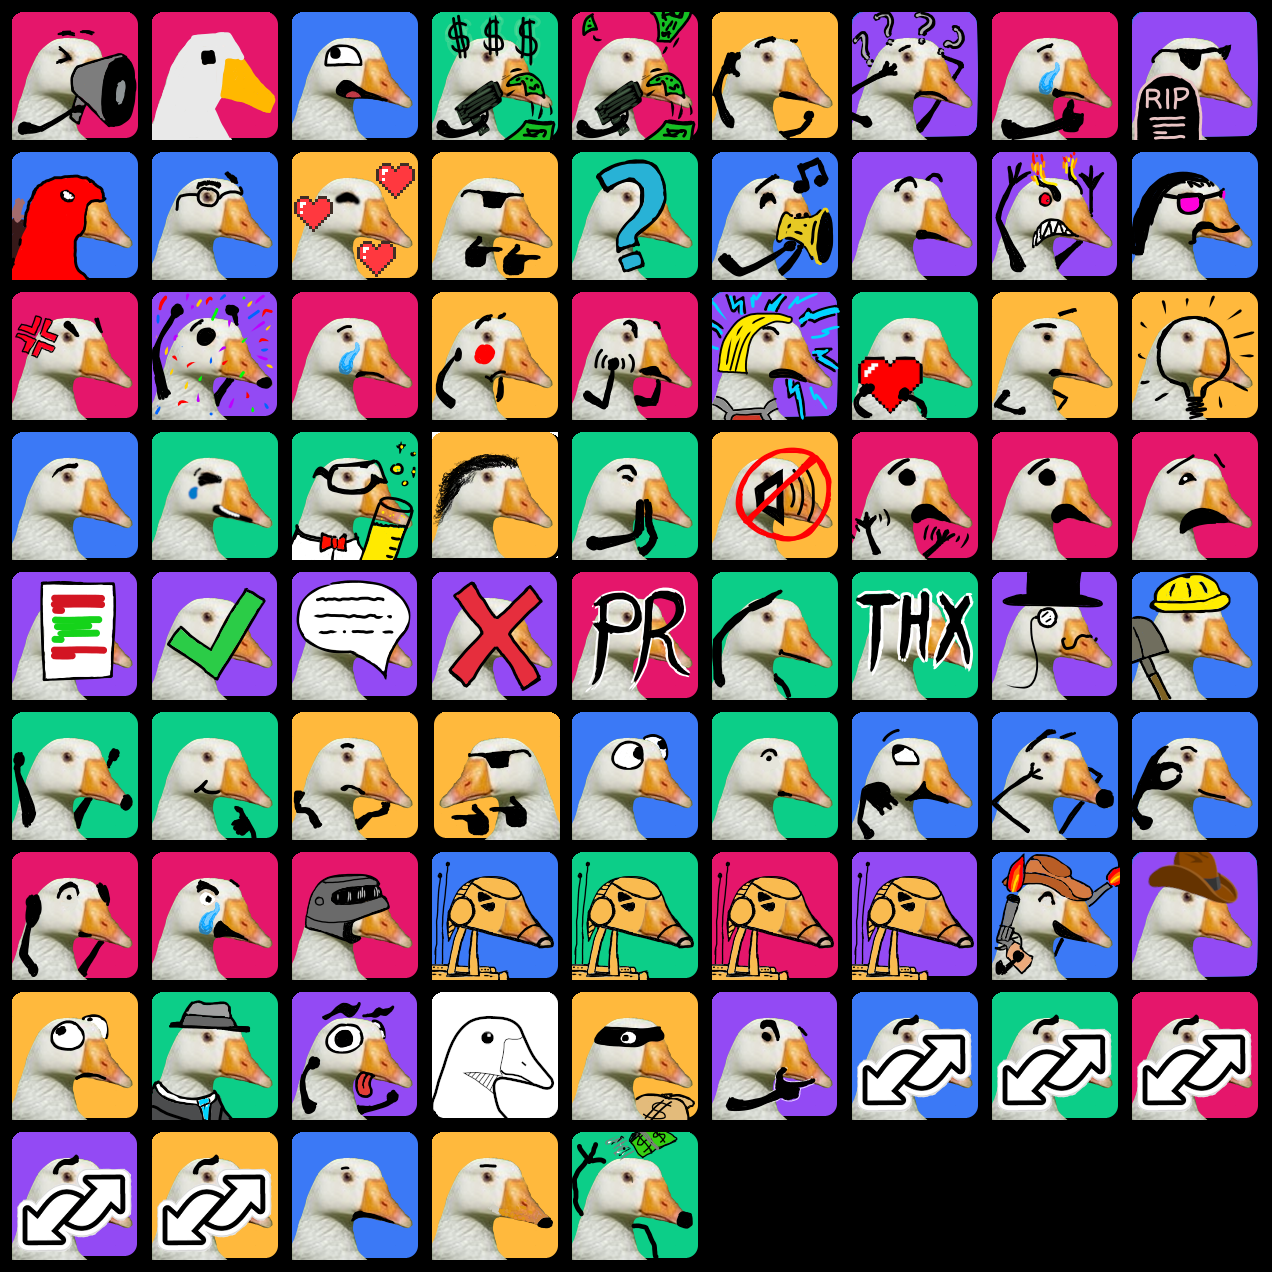
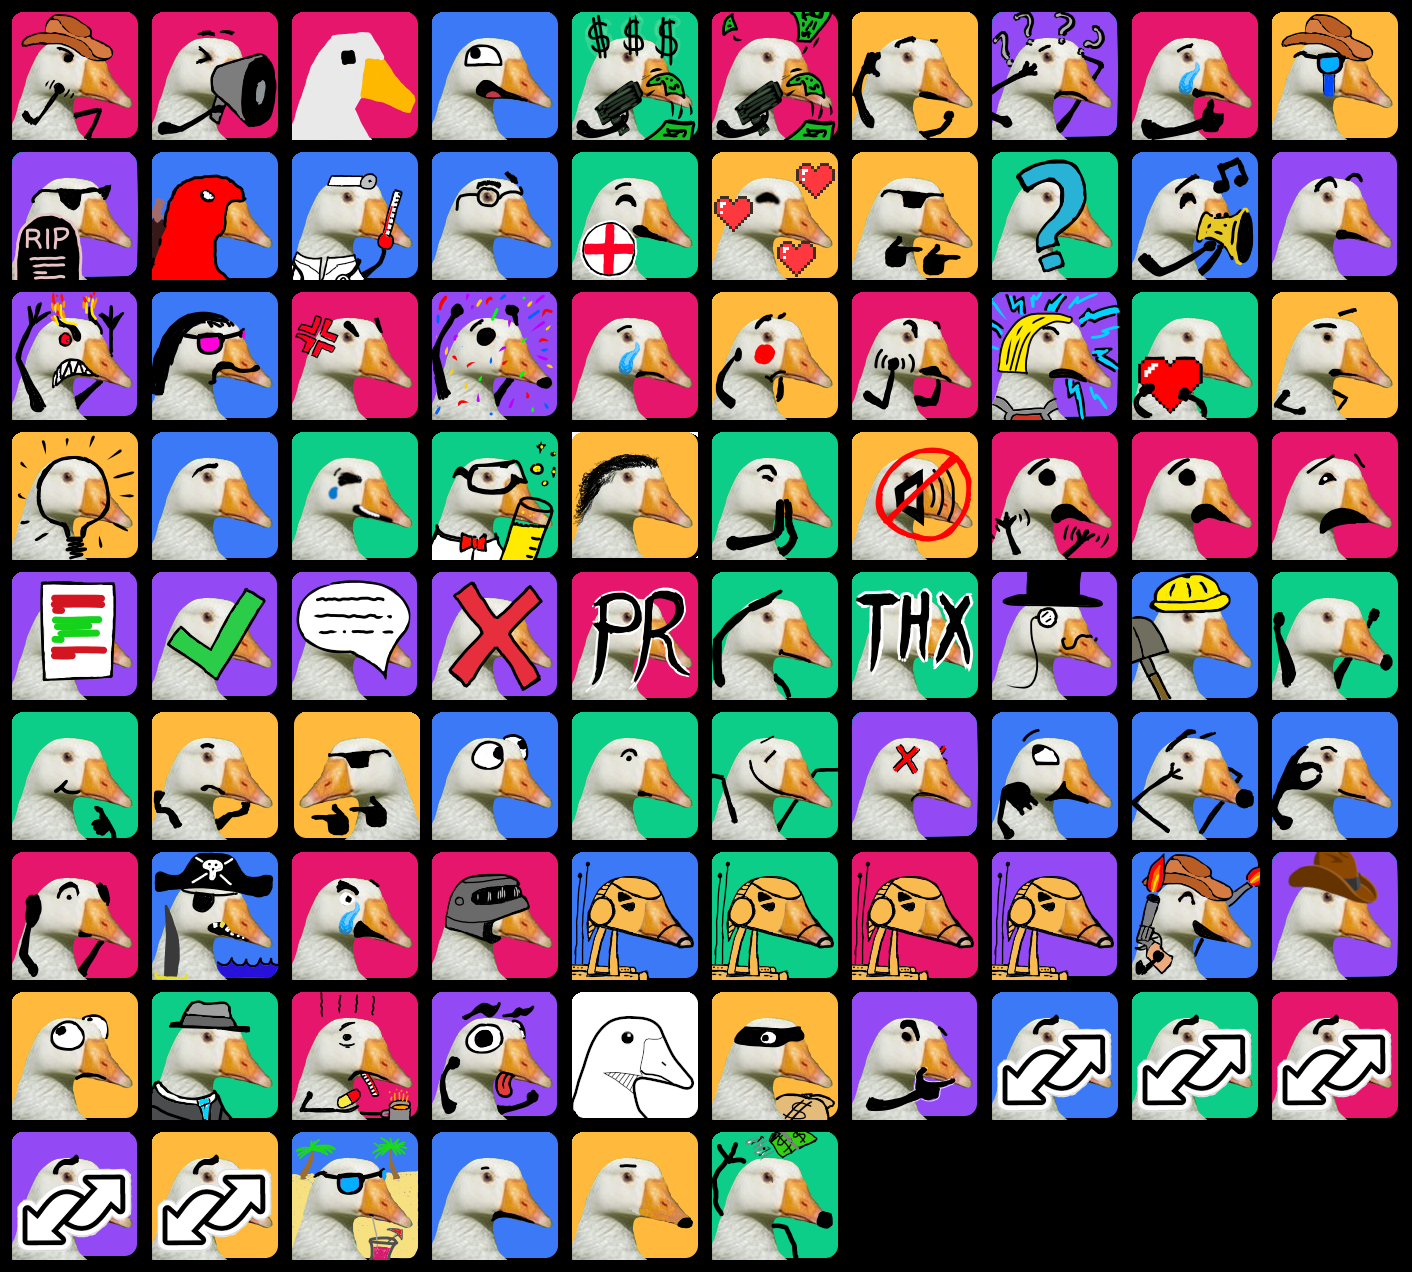
Automatic Asset Rebuild

diff --git a/picker/index.html b/picker/index.html
@@ -11,6 +11,7 @@
 <body>
 <main>
 
+<img src="../goots/aint-room-goots.png" alt=":aint-room-goots:" title=":aint-room-goots:">
 <img src="../goots/announceoots.png" alt=":announceoots:" title=":announceoots:">
 <img src="../goots/artificial-goots.png" alt=":artificial-goots:" title=":artificial-goots:">
 <img src="../goots/awesome-goots.png" alt=":awesome-goots:" title=":awesome-goots:">
@@ -19,9 +20,12 @@
 <img src="../goots/cant-hear-goots.png" alt=":cant-hear-goots:" title=":cant-hear-goots:">
 <img src="../goots/confugoots.png" alt=":confugoots:" title=":confugoots:">
 <img src="../goots/cry-thumbs-up.png" alt=":cry-thumbs-up:" title=":cry-thumbs-up:">
+<img src="../goots/crying-cool-cowboy-goots.png" alt=":crying-cool-cowboy-goots:" title=":crying-cool-cowboy-goots:">
 <img src="../goots/dead-code-goots.png" alt=":dead-code-goots:" title=":dead-code-goots:">
 <img src="../goots/deadpool-goots.png" alt=":deadpool-goots:" title=":deadpool-goots:">
+<img src="../goots/doctor-goots.png" alt=":doctor-goots:" title=":doctor-goots:">
 <img src="../goots/eugene-goots.png" alt=":eugene-goots:" title=":eugene-goots:">
+<img src="../goots/feel-better-goots.png" alt=":feel-better-goots:" title=":feel-better-goots:">
 <img src="../goots/feel-the-goots.png" alt=":feel-the-goots:" title=":feel-the-goots:">
 <img src="../goots/fingie-goots.png" alt=":fingie-goots:" title=":fingie-goots:">
 <img src="../goots/goot-question.png" alt=":goot-question:" title=":goot-question:">
@@ -63,11 +67,14 @@
 <img src="../goots/gootsie-guns.png" alt=":gootsie-guns:" title=":gootsie-guns:">
 <img src="../goots/gooty-eyes.png" alt=":gooty-eyes:" title=":gooty-eyes:">
 <img src="../goots/kalmoots.png" alt=":kalmoots:" title=":kalmoots:">
+<img src="../goots/looks-goots-to-me.png" alt=":looks-goots-to-me:" title=":looks-goots-to-me:">
+<img src="../goots/offboard-goots.png" alt=":offboard-goots:" title=":offboard-goots:">
 <img src="../goots/oh-goots.png" alt=":oh-goots:" title=":oh-goots:">
 <img src="../goots/oh-my-gootness.png" alt=":oh-my-gootness:" title=":oh-my-gootness:">
 <img src="../goots/ok-goots.png" alt=":ok-goots:" title=":ok-goots:">
 <img src="../goots/pani-goots.png" alt=":pani-goots:" title=":pani-goots:">
 <img src="../goots/party-goots.gif" alt=":party-goots:" title=":party-goots:">
+<img src="../goots/piratoots.png" alt=":piratoots:" title=":piratoots:">
 <img src="../goots/ragin-goots-tears.png" alt=":ragin-goots-tears:" title=":ragin-goots-tears:">
 <img src="../goots/robogoots.png" alt=":robogoots:" title=":robogoots:">
 <img src="../goots/roger-goots-blue.png" alt=":roger-goots-blue:" title=":roger-goots-blue:">
@@ -78,6 +85,7 @@
 <img src="../goots/rootin-tootin-gootin.png" alt=":rootin-tootin-gootin:" title=":rootin-tootin-gootin:">
 <img src="../goots/shifty-goots.png" alt=":shifty-goots:" title=":shifty-goots:">
 <img src="../goots/ship-it-goots.png" alt=":ship-it-goots:" title=":ship-it-goots:">
+<img src="../goots/sickoots.png" alt=":sickoots:" title=":sickoots:">
 <img src="../goots/sillioots.png" alt=":sillioots:" title=":sillioots:">
 <img src="../goots/simple-goots.png" alt=":simple-goots:" title=":simple-goots:">
 <img src="../goots/thievin-goots.png" alt=":thievin-goots:" title=":thievin-goots:">
@@ -87,6 +95,7 @@
 <img src="../goots/uno-reverso-pink.png" alt=":uno-reverso-pink:" title=":uno-reverso-pink:">
 <img src="../goots/uno-reverso-purple.png" alt=":uno-reverso-purple:" title=":uno-reverso-purple:">
 <img src="../goots/uno-reverso-yellow.png" alt=":uno-reverso-yellow:" title=":uno-reverso-yellow:">
+<img src="../goots/vacatioots.png" alt=":vacatioots:" title=":vacatioots:">
 <img src="../goots/wat-goots.png" alt=":wat-goots:" title=":wat-goots:">
 <img src="../goots/wat-goots2.png" alt=":wat-goots2:" title=":wat-goots2:">
 <img src="../goots/yeets.png" alt=":yeets:" title=":yeets:">
